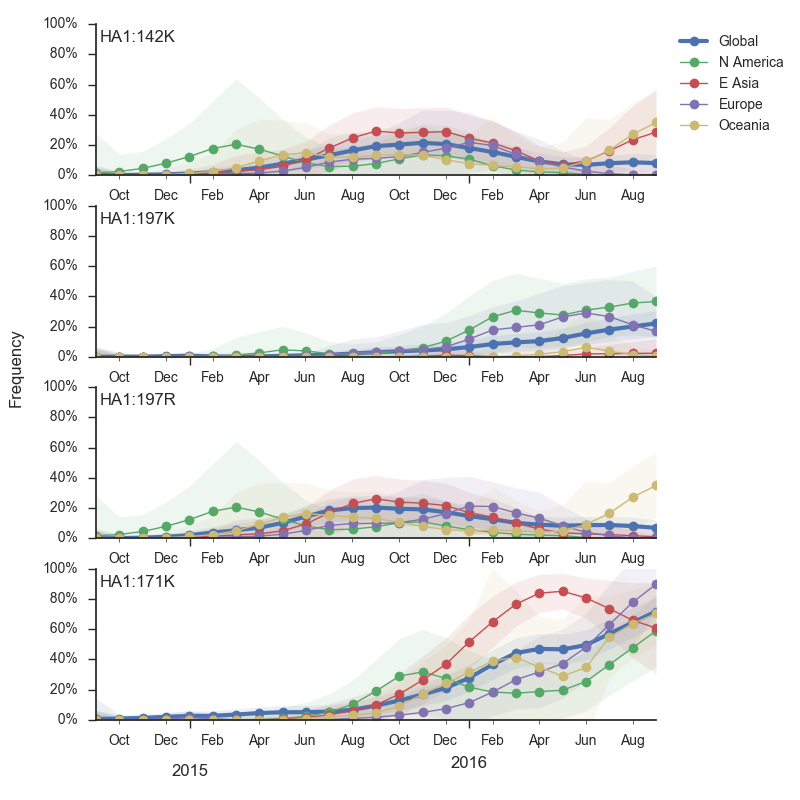
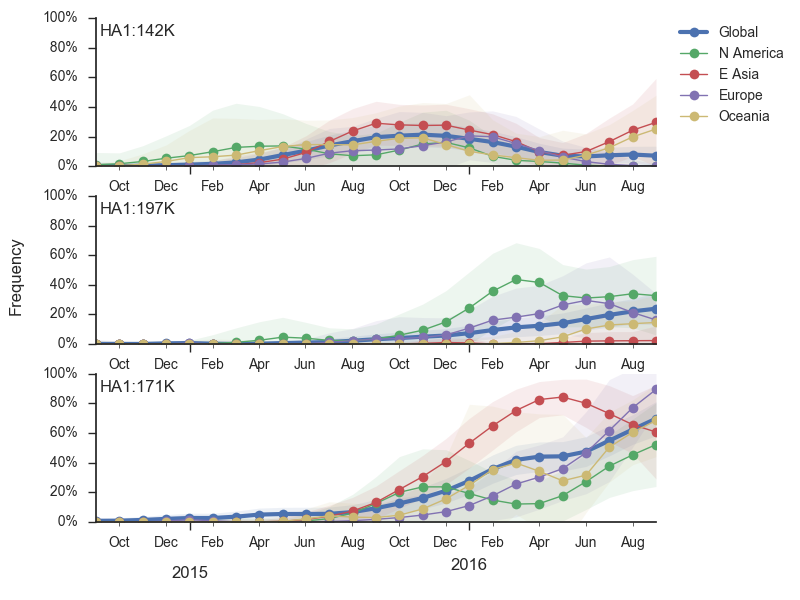
Update Sep report.

Changed region(s): [[0.0625, 0.0, 1.0, 0.99], [0.0, 0.39, 0.0312, 0.54], [0.125, 0.03, 0.2188, 0.06]]

diff --git a/auspice/reports/_posts/2016-09-16-sep-2016.html b/auspice/reports/_posts/2016-09-16-sep-2016.html
@@ -27,25 +27,25 @@ categories:
 
 		<!-- Discussion of older 3c3.a, 3c3.b and 3c2.a clades -->
 
-		Discussion of older 3c3.a, 3c3.b and 3c2.a clades...
+    Viral clades 3c3.a, 3c3.b and 3c2.a emerged from the Texas/2012 background in early 2014 and rapidly spread through the viral population. Subsequently, we have observed competition among these clades, with 3c2.a viruses being globally dominant beginning in 2015. Recently, we have observed the steady decline of 3c3.b viruses. At this point, we estimate that they are either extinct or nearly extinct. 3c3.a viruses were largely replaced by 3c2.a viruses starting in 2015. However, we have observed an anomolous late-season epidemic of 3c3.a viruses within the USA from Jan to Aug 2016. Elsewhere in the world, 3c2.a viruses have remained dominant, particularly in E Asia, where we estimate 3c2.a frequencies to be >95% throughout 2016.
 
 		{% embed_image /reports/figures/sep-2016/H3N2_clades.png 12 %}
 
 		<!-- Discussion of late season 3c2.a viruses in the USA -->
 
-    Discussion of late season 3c2.a viruses in the USA...
+    The late-season 3c3.a epidemic in the USA is puzzling. However, we suspect that this epidemic is due to epidemiologic circumstance rather than the emergence of a antigenically novel variant. The strongest evidence for this is that there is not a single clade within 3c3.a that is spreading throughout the USA. Instead, a variety of 3c3.a viruses are spreading, each with different HA1 mutations. The emergence and spread of an adaptive variant would have appeared as a single clade bearing a characteristic epitope mutation. This is not what we see. Because of this, we highly doubt that these 3c3.a viruses will spread globally. It is conceivable however, that the 2016-2017 USA epidemic could derive from over-summering transmission chains. This would be an unusual event, but not unheard of (<a href="http://bedford.io/papers/bedford-global-migration/">Bedford et al. 2010</a>).
 
 		{% embed_image /reports/figures/sep-2016/H3N2_3c3a_tree.png 12 %}
 
 		<!-- Discussion of variation within 3c2.a -->
 
-    Discussion of variation within 3c2.a...
+    The dominant 3c2.a viruses have continued to genetically diversify with emergence of multiple subclades. We observe 3 subclades of decent frequency in 2016 viruses. These are characterized by HA1 mutations 142K/197R, HA1 mutation 197K and HA1 mutation 171K + HA2 mutations 77V/155E. The 171K variant comprises approximately 54% of 3c2.a viruses collected in 2016.
 
     {% embed_image /reports/figures/sep-2016/H3N2_3c2a_tree.png 12 %}
 
     <!-- Discussion of dynamics within 3c2.a and rise of 171K -->
 
-    Discussion of dynamics within 3c2.a and rise of 171K...
+    The 142K/197R clade first emerged around June 2015 and rose to nearly 20% global frequency in Nov 2015. However, it's declined throughout 2016. We doubt this is a competitive virus. The 197K clade emerged in late 2015 and has slowly grown in frequency since. We estimate that it now comprises ~14% of H3N2 viruses. Notably however, 197K is at extremely low frequency in East Asia with an estimated present-day frequency ~2%. On the other hand, clade 171K viruses have done remarkdably well throughout 2016 and now comprise an estimated 69% of global H3N2 viruses.
 
     {% embed_image /reports/figures/sep-2016/H3N2_mutations.png 12 %}
 

diff --git a/auspice/reports/plot_clades.py b/auspice/reports/plot_clades.py
@@ -27,7 +27,7 @@ region_codes = {'EU':['europe'], 'AS':['china', 'japan_korea','southeast_asia'],
 
 if virus=='H3N2': ########## H3N2
     clades = ['3c2.a', '3c3.a', '3c3.b']
-    mutations = ['HA1:142K', 'HA1:197K', 'HA1:197R', 'HA1:171K']
+    mutations = ['HA1:142K', 'HA1:197K', 'HA1:171K']
     clade_legend = {'panel':0, 'loc':3}
     mut_legend = {'panel':0, 'loc':3}
 elif virus=='H1N1pdm': ########## H1N1pdm
